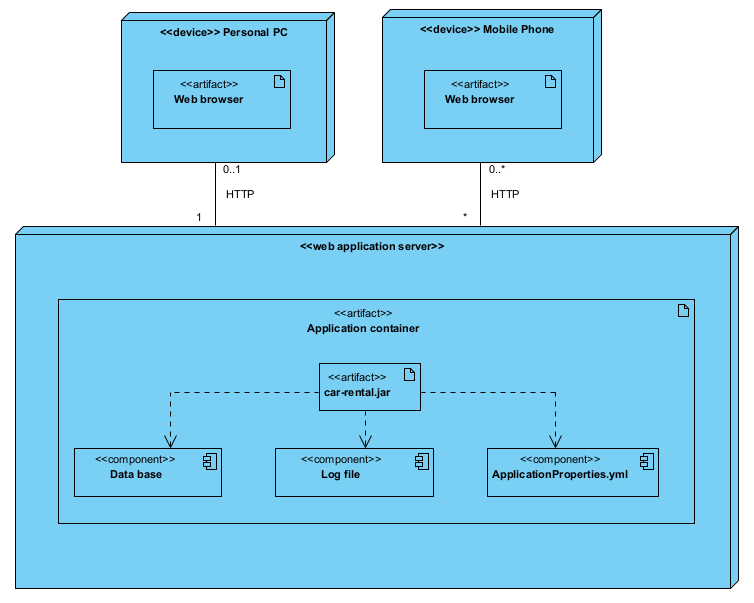
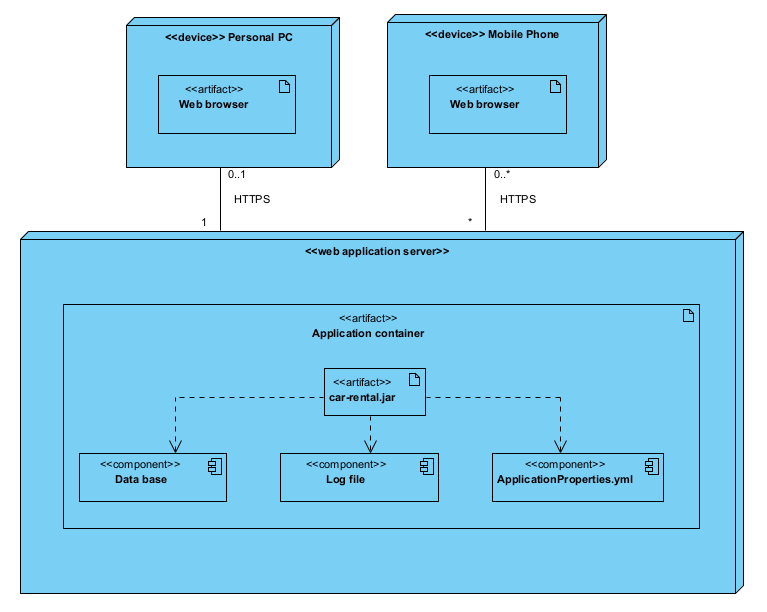
update test

diff --git a/dokumentacja/Dokumentacja.md b/dokumentacja/Dokumentacja.md
@@ -672,7 +672,9 @@ Powyższy diagram komponentów przedstawia główne komponenty systemu z wyłąc
 # 18. Wdrożenie
 ## 18.1. Diagramy wdrożenia
 ### 18.1.1. Wdrożenie z wykorzystaniem kontenera Docker
-![Diagram wrożnia](images/deploymentDiagram.png)
+![Diagram wdrożenia](images/deploymentDiagram.png)
+
+**Uwaga** W wersji MVP aplikacja może wyświetlać się niepoprawnie na urządzeniach mobilnych, ze względu na brak skalowania tabel
 
 ## 18.2. Wymagania systemowe
 Aplikacja napisana została w wieloplatformowym języku Java. Działa na każdym systemie z systemem operacyjnym Windows, Linux czy MacOS.
@@ -705,6 +707,10 @@ Dokumentacja NGINX: http://nginx.org/en/docs/
 ## 18.5. Bezpieczeństwo i certyfikat HTTPS
 W wersji demonstracyjnej aplikacji wykorzystano niezarejestrowany certyfikat HTTPS. Gwarantuje on szyfrowanie danych przesyłanych z przeglądarki do serwera, jednak nie jest to certyfikat wydany przez Urząd Certyfikacji, wobec czego nie będzie traktowany przez przeglądarkę jako certyfikat zaufany.
 
+Wymagać to może, odpowiednich kroków w zależności od konkretnej przeglądarki. W większości przypadków konieczne będzie wybranie opcji zaawansowanych[1], w celu wyświetlenia możliwości otwarcia strony[2].
+
+![Certyfikat niezaufany](images/notTrustedCert.png)
+
 # 19. Podręcznik użytkownika
 
 **Spis treści**
@@ -729,24 +735,32 @@ W wersji demonstracyjnej aplikacji wykorzystano niezarejestrowany certyfikat HTT
 
 ## 19.1. Rejestrowanie użytkownika
 
-W celu rejestracji w aplikacji należy otworzyć stronę serwisu:  
-https://ubuntu.llseremak.p3.tiktalik.io/car-rental/add_user  
+W celu rejestracji należy wejść na stronę aplikacji: https://ubuntu.llseremak.p3.tiktalik.io/car-rental  
+Po przekierowaniu do strony startowej należy kliknąć zakładkę **Sign Up** w głównym menu,  w celu przekierowania do formularza rejestracyjnego.
+
+![Strona startowa](images/landingPage.png)
+
 Następnie należy uzupełnić formularz rejestracyjny.
 
 ![Rejestracja do systemu](images/SignUp.png)
 
-W przypadku wysłania pustego formularza albo błędów w nim użytkownik nie zostanie zarejestrowany oraz zostanie wyświetlony odpowiedni komunikat.
+Wpisane przez użytkownika dane są walidowane. W przypadku wpisania błędnych lub niepełnych danych zostanie zwrócony komunikat o błędzie.
 
 ![Błąd rejestracji](images/SignUp2.png)
 
 Komunikat wystąpi także, jeśli użytkownik o danym loginie już istnieje.
 
 ![Użytkownik istnieje](images/SignUp3.png)
+
+Po wpisaniu prawidłowych danych rejestracyjnych zostanie utworzone nowe konto, a użytkownik zostanie przekierowany na stronę logowania.
+
+![Użytkownik utworzony](images/userCreated.png)
+
 ## 19.2. Logowanie do systemu
 
-W celu zalogowania się do aplikacji najpierw otworzyć stronę serwisu:
-https://ubuntu.llseremak.p3.tiktalik.io/car-rental/login  
-W celu zalogowania się do systemu należy, wpisać prawidłowy login oraz hasło. 
+W celu zalogowania się do aplikacji należy wejść na główną stronę aplikacji, 
+a następnie kliknąć zakładkę **Sign In** w głównym menu, w celu przekierowania do formularza logowania.
+Następnie należy wpisać prawidłowy login oraz hasło. 
 
 ![Logowanie do systemu](images/SingingIn.png)
 
@@ -754,13 +768,7 @@ W przypadku wpisania błędnych danych użytkownik nie zostanie zalogowany, a na
 
 ![Błąd logowania](images/SingingIn2.png)
 
-**Uwaga**: W wersji prezentacyjnej wykorzystano darmowy certyfikat SSL, który zapewnia pełne szyfrowanie ruchu pomiędzy przeglądarką
-użytkownika a serwerem, jednak nie jest to certyfikat autoryzowany przez Urząd Certyfikacji, wobec tego nie będzie rozpoznany przez przeglądarki jako
-certyfikat zaufany. Wymagać to może, odpowiednich kroków w zależności od konkretnej przeglądarki. W większości przypadków konieczne będzie wybranie opcji zaawansowanych[1], w celu wyświetlenia możliwości otwarcia strony[2].
-
-![Certyfikat niezaufany](images/notTrustedCert.png)
-
-**Uwaga**: W wersji prezentacyjnej na ekranie logowania znajdują się informację o danych do logowania do kont dla wszystkich
+**Uwaga**: W wersji MVP na ekranie logowania znajdują się informację o danych do logowania do kont dla wszystkich
 typów użytkowników.
 
 ## 19.3. Wyszukiwanie dostępnych pojazdów
@@ -772,7 +780,7 @@ numer strony znajdujący się pod wynikami wyszukiwania.
 
 ![Znajdź samochód](images/findCar.png)
 
-**Uwaga:** W wersji prezentacyjnej aplikacji nie zaimplementowano sortowania ani możliwości wyboru ilości stron do wyświetlenia na ekranie logowania. Funkcje te znajdą się w pełnej wersji aplikacji.
+**Uwaga:** W wersji MVP aplikacji nie zaimplementowano sortowania ani możliwości wyboru ilości stron do wyświetlenia na ekranie logowania. Funkcje te znajdą się w pełnej wersji aplikacji.
 
 ## 19.4. Składanie rezerwacji
 
@@ -861,7 +869,7 @@ Menadżer ma możliwość odczytywania wiadomości od użytkowników dotyczącyc
 W przypadku chęci przeczytania pełnej treści wiadomości należy nacisnąć przycisk `View` [3]*, a w przypadku chęci usunięcia wiadomości należy nacisnąć przycisk `Delete` [4].
 
 
-**Uwaga**: W wersji prezentacyjnej podgląd wiadomości nie został zaimplementowany.
+**Uwaga**: W wersji MVP podgląd wiadomości nie został zaimplementowany.
 
 ![Podgląd wiadomości](images/messagesView.png)
 
@@ -892,7 +900,7 @@ Każdą zmianę należy zatwierdzić przyciskiem `Submit` [1], natomiast w przyp
 
 ### 19.8.2 Ustawienia administracyjne
 
-**UWAGA**: Panel ustawień administracyjnych w wersji prezentacyjnej jest wyłącznie pokazowy, wszelkie funkcje nie zostały jeszcze zaimplementowane.
+**UWAGA**: Panel ustawień administracyjnych w wersji MVP jest wyłącznie pokazowy, wszelkie funkcje nie zostały jeszcze zaimplementowane.
 
 Aby dostać się do ustawień administracyjnych trzeba wejść w panel `Settings`[1], a następnie z rozwijanej listy wybrać `Administration Settings`.
 Panel ten pozwala nam na zmianę danych dotyczących firmy [3] oraz zmianę waluty obsługiwanej na stronie [4].
